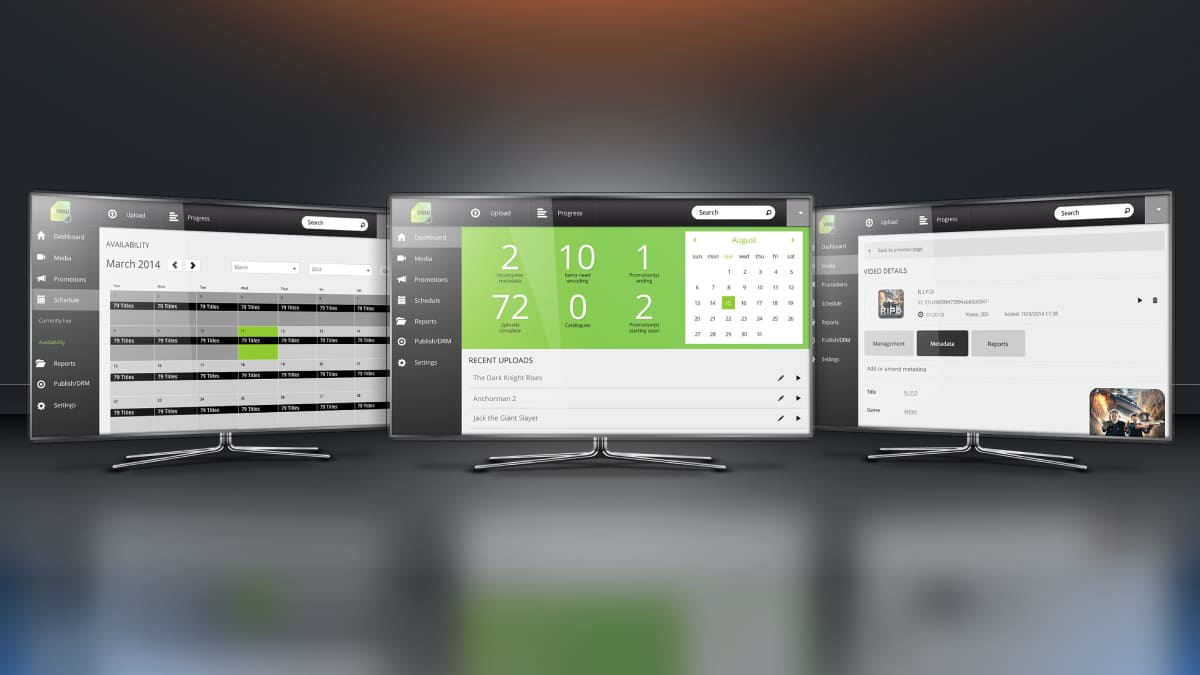
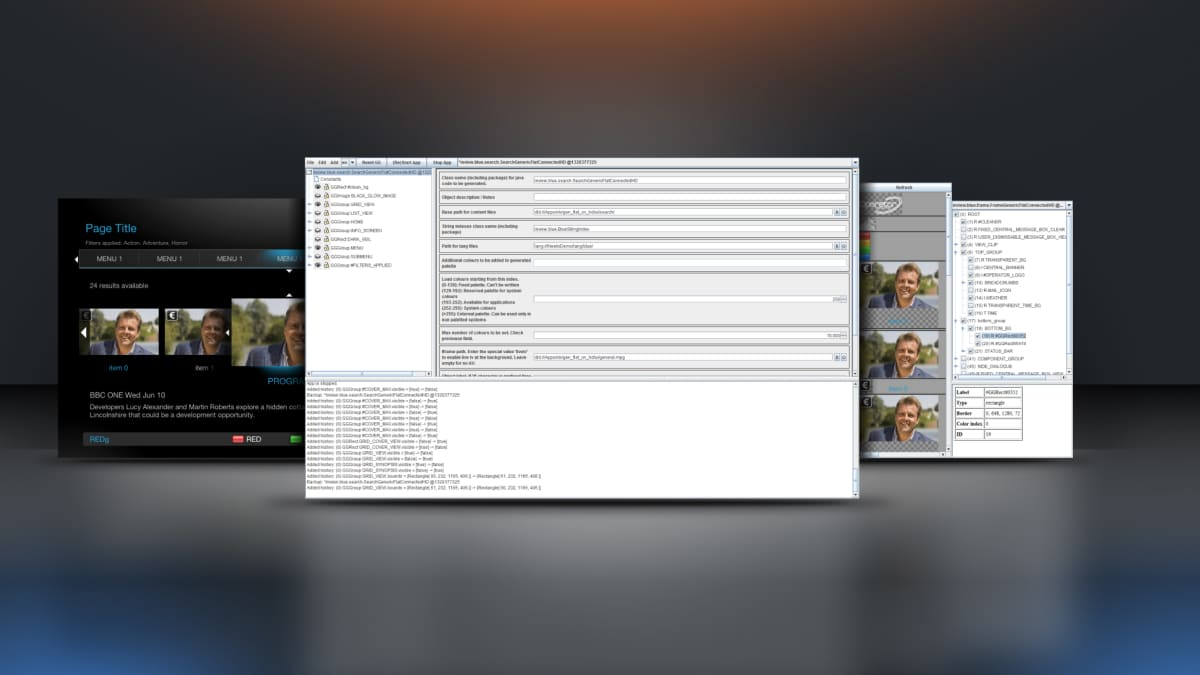
small update
index cards, gui asset

diff --git a/projects/glide-ui.html b/projects/glide-ui.html
@@ -245,8 +245,7 @@
                                 alt="Glide settings screen showing a highlighted channel-lock option">
                         </figure>
                         <h3 class="title-3">Colour &amp; recognition</h3>
-                        <p>Dedicated colours helped distinguish sections and reinforce hierarchy. The system was
-                            captured in a 44-page styling guide for internal teams and customers.</p>
+                        <p>Dedicated section colours reinforced visual hierarchy and helped viewers orient themselves quickly. These rules were documented in a 44-page style guide for internal teams and broadcast partners.</p>
                     </article>
                     <article>
                         <figure class="case-study-system-visual">
@@ -254,8 +253,7 @@
                                 alt="Television interface menu wireframe with Settings highlighted">
                         </figure>
                         <h3 class="title-3">Typography &amp; language</h3>
-                        <p>Montserrat Light was selected for television readability across HD and SD. Character support
-                            was expanded manually, informing later Arabic language work.</p>
+                        <p>Selected Montserrat Light for clear legibility on both HD and SD television screens, manually expanding the character set to support regional alphabets and inform later Arabic right-to-left (RTL) layouts.</p>
                     </article>
                     <article>
                         <figure class="case-study-system-visual">
@@ -263,8 +261,7 @@
                                 alt="A collection of television interface components and screen patterns">
                         </figure>
                         <h3 class="title-3">Reusable components</h3>
-                        <p>The component library covered dialogues, player controls, buttons, prompt text, keyboards,
-                            loading states and volume handling.</p>
+                        <p>Created a standardised UI library covering core TV patterns, including modal dialogues, player controls, on-screen keyboards, loading states, and volume overlays.</p>
                     </article>
                     <article>
                         <figure class="case-study-system-visual">
@@ -272,9 +269,7 @@
                                 alt="Glide interface layout being edited in a visual design tool">
                         </figure>
                         <h3 class="title-3">Assets &amp; documentation</h3>
-                        <p>A large icon and asset library supported accessibility, regionalisation, broadcast features,
-                            system settings and user controls. Eighteen specification documents supported
-                            implementation, testing and client review.</p>
+                        <p>Built a scalable icon and asset library to support localisation, accessibility, and core broadcast features, backed by 18 detailed specification documents for engineering, QA, and client sign-off.</p>
                     </article>
                 </div>
             </div>

diff --git a/css/components/card.css b/css/components/card.css
@@ -13,6 +13,16 @@
     background: var(--colour-surface-card);
 }
 
+.featured-work-section .work-grid {
+    grid-template-columns: repeat(2, minmax(0, 1fr));
+}
+
+.featured-work-section .work-grid > .project-card:last-child:nth-child(odd) {
+    grid-column: 1 / -1;
+    justify-self: center;
+    width: calc(50% - var(--space-3));
+}
+
 .section-header {
     margin-bottom: var(--space-6);
 }
@@ -234,6 +244,15 @@
 }
 
 @media (max-width: 768px) {
+    .featured-work-section .work-grid {
+        grid-template-columns: 1fr;
+    }
+
+    .featured-work-section .work-grid > .project-card:last-child:nth-child(odd) {
+        grid-column: auto;
+        width: 100%;
+    }
+
     .home-page > .hero-section,
     .home-page > .featured-work-section,
     .home-page > .additional-section {
